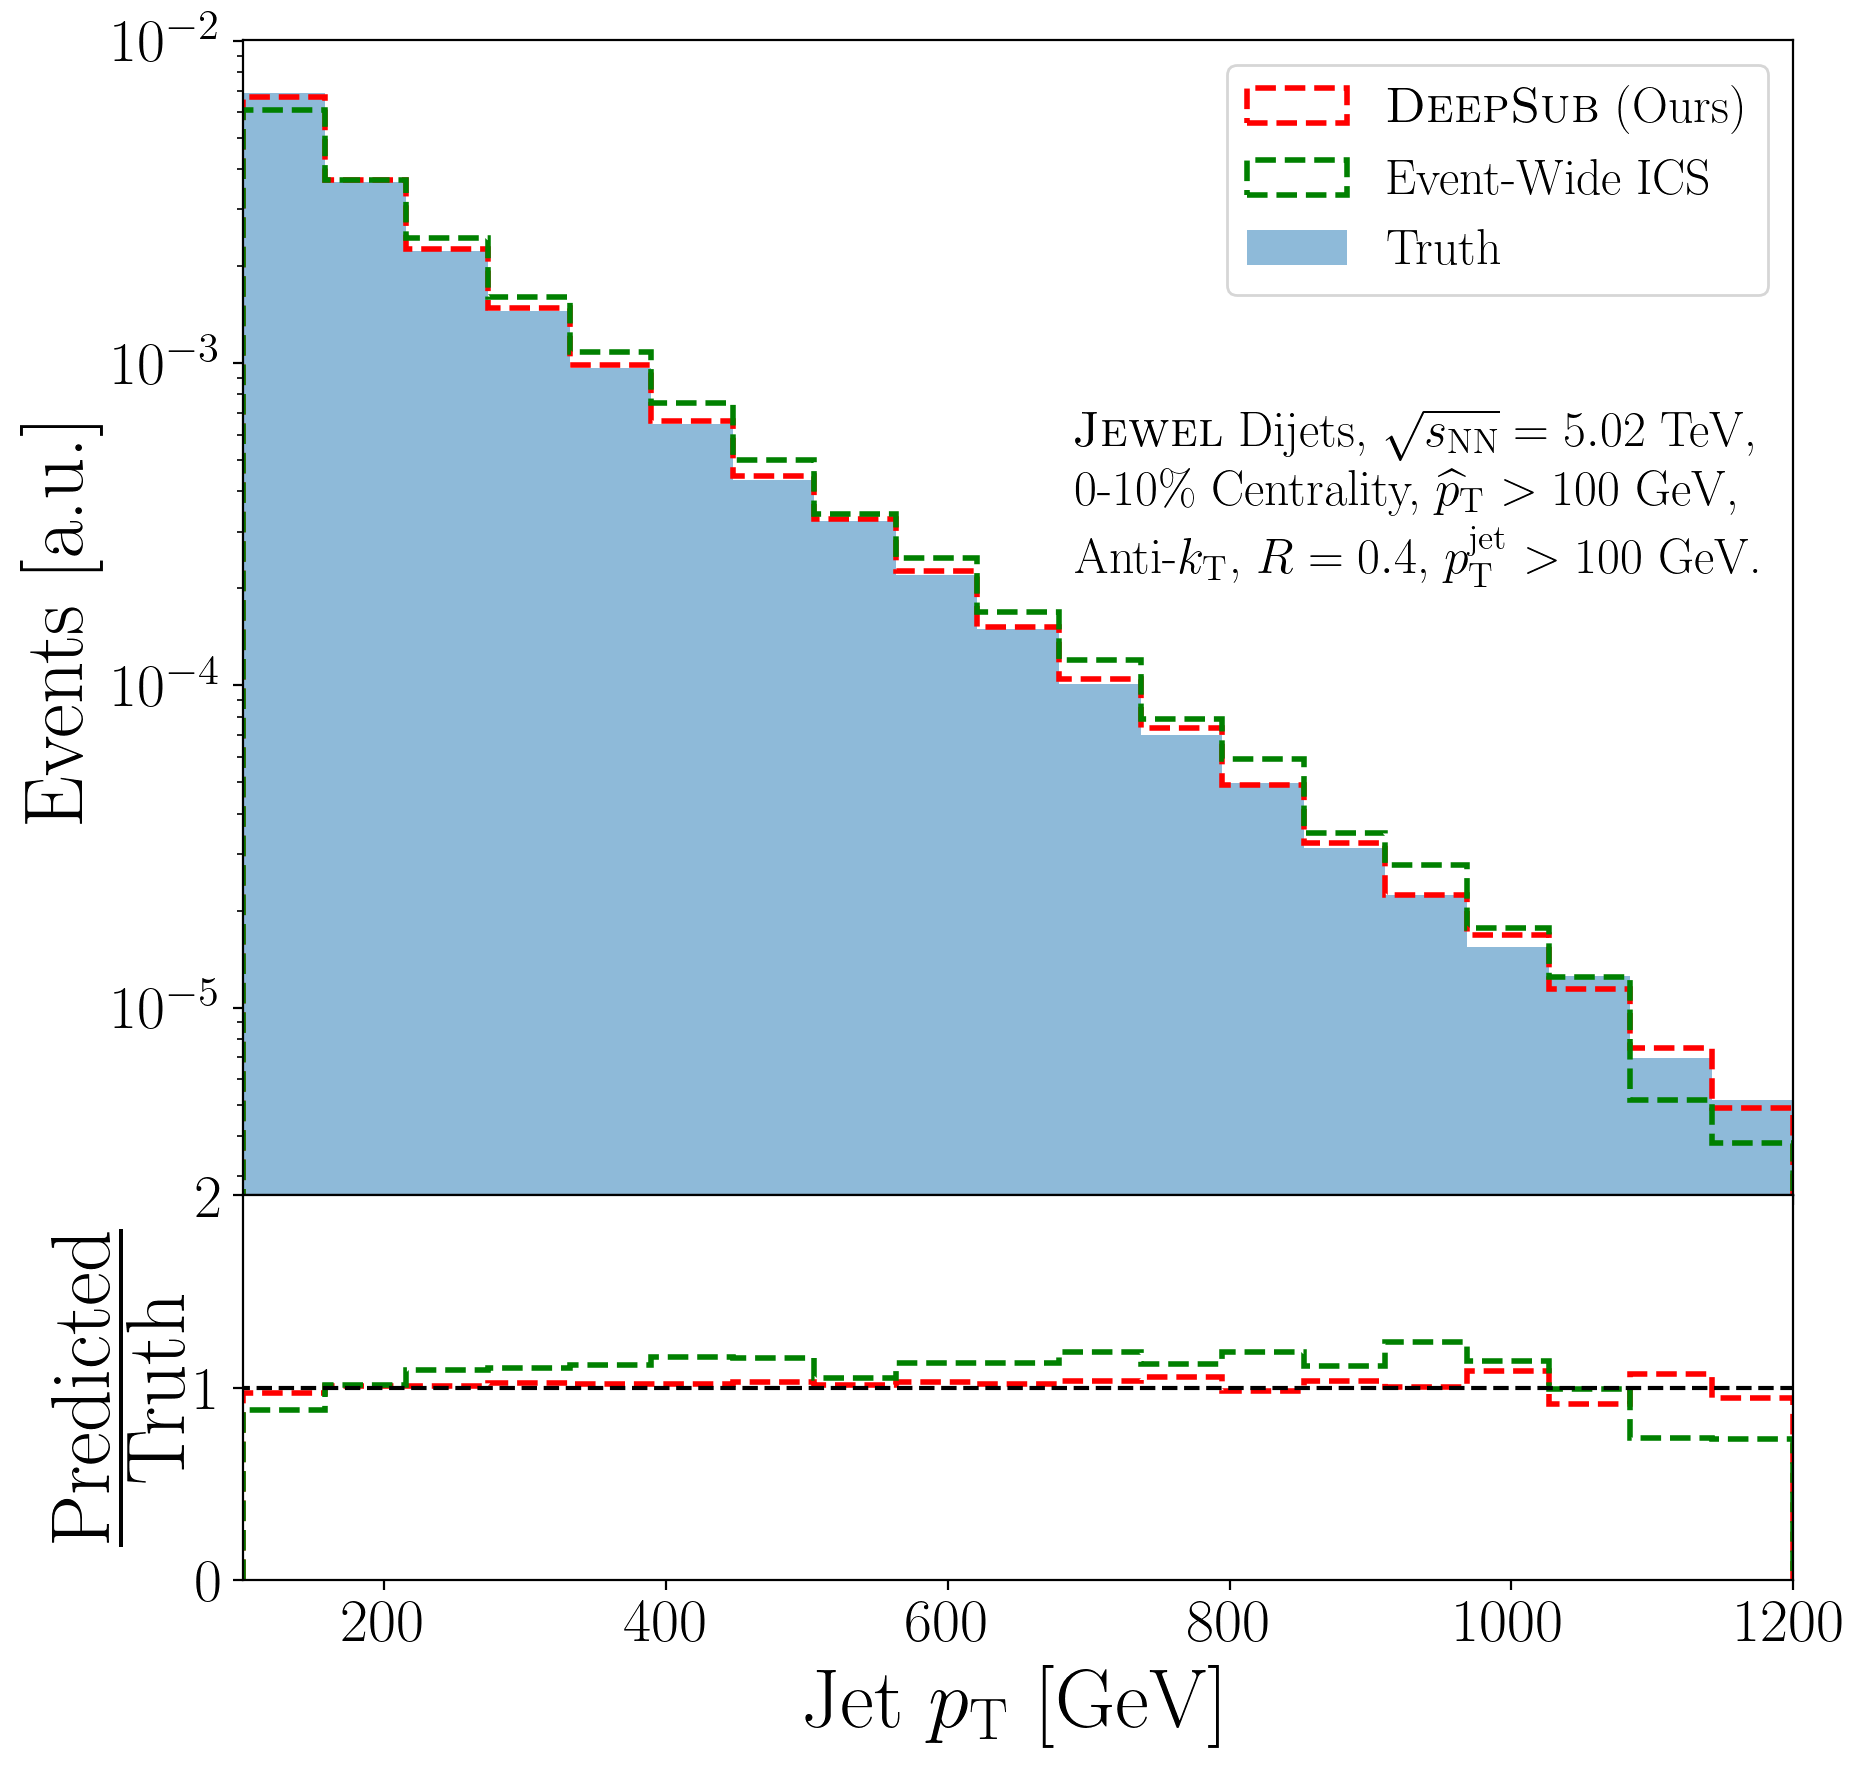
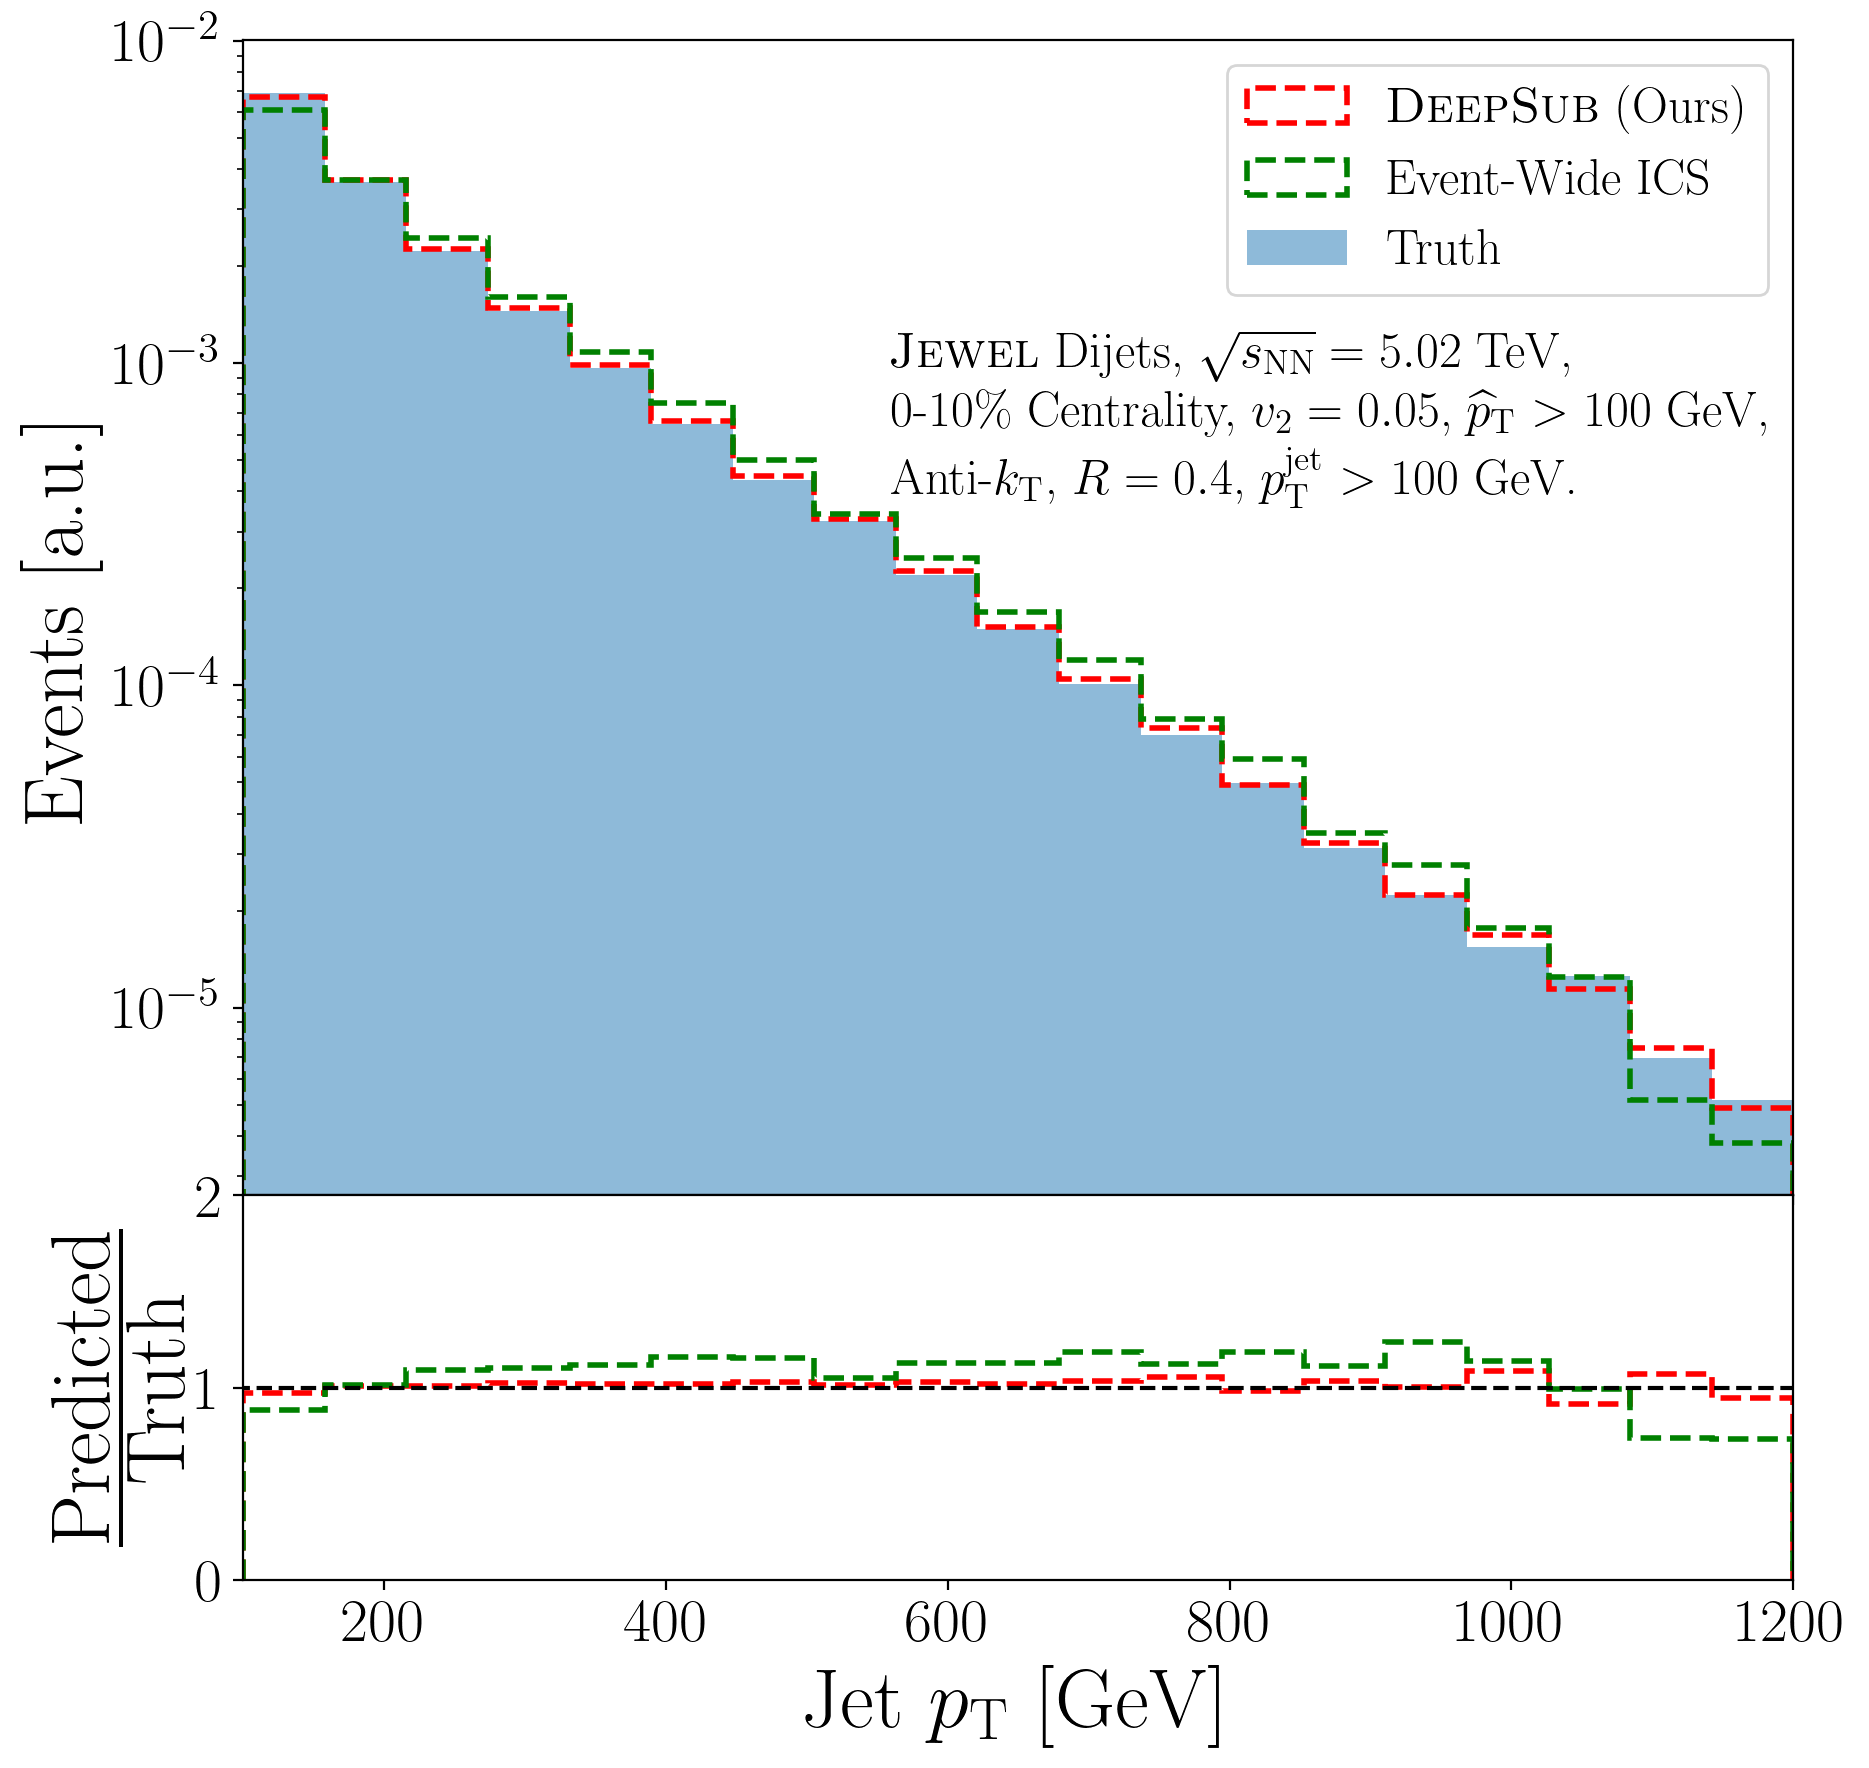
Changed plotting style

Changed region(s): [[0.4655, 0.1867, 0.931, 0.3422], [0.5896, 0.3111, 0.6517, 0.3422], [0.8999, 0.3111, 0.931, 0.3422]]

diff --git a/plot.py b/plot.py
@@ -1,6 +1,7 @@
 """
-Plotting macros for reconstructed, event-wide ICS vs. truth jet observables:
+plot.py
 
+Generate comparison plots for reconstructed vs. truth jet observables:
 - Jet pT
 - Jet mass
 - Jet girth
@@ -9,7 +10,6 @@ Plotting macros for reconstructed, event-wide ICS vs. truth jet observables:
 Loads NumPy arrays from the 'obs' directory and saves figures to 'figs'.
 """
 
-import os
 import numpy as np
 import matplotlib.pyplot as plt
 from pathlib import Path
@@ -80,9 +80,9 @@ def plot_pt(obs_dir, figs_dir):
 
     # Annotation
     ax_main.text(
-        690, 0.225e-3,
+        560, 1.55*0.255e-3,
         "\\textsc{Jewel} Dijets, $\\sqrt{s_{\\mathrm{NN}}}=5.02$ TeV,\n"
-        "0-10\\% Centrality, $\\widehat{p}_{\\mathrm{T}}> 100$ GeV,\n"
+        "0-10\\% Centrality, $v_2=0.05$, $\\widehat{p}_{\\mathrm{T}}> 100$ GeV,\n"
         "Anti-$k_{\\mathrm{T}}$, $R=0.4$, $p_{\\mathrm{T}}^{\\mathrm{jet}} > 100$ GeV.",
         fontsize=18
     )
@@ -137,9 +137,9 @@ def plot_mass(obs_dir, figs_dir):
     ax_ratio.set_ylim([0, 2])
 
     ax_main.text(
-        78, 0.225e-2,
+        62, 1.75*0.225e-2,
         "\\textsc{Jewel} Dijets, $\\sqrt{s_{\\mathrm{NN}}}=5.02$ TeV,\n"
-        "0-10\\% Centrality, $\\widehat{p}_{\\mathrm{T}}> 100$ GeV,\n"
+        "0-10\\% Centrality, $v_2=0.05$, $\\widehat{p}_{\\mathrm{T}}> 100$ GeV,\n"
         "Anti-$k_{\\mathrm{T}}$, $R=0.4$, $p_{\\mathrm{T}}^{\\mathrm{jet}} > 100$ GeV.",
         fontsize=18
     )
@@ -196,7 +196,7 @@ def plot_girth(obs_dir, figs_dir):
     ax_main.text(
         0.075, 1.45,
         "\\textsc{Jewel} Dijets, $\\sqrt{s_{\\mathrm{NN}}}=5.02$ TeV,\n"
-        "0-10\\% Centrality, $\\widehat{p}_{\\mathrm{T}}> 100$ GeV,\n"
+        "0-10\\% Centrality, $v_2=0.05$, $\\widehat{p}_{\\mathrm{T}}> 100$ GeV,\n"
         "Anti-$k_{\\mathrm{T}}$, $R=0.4$, $p_{\\mathrm{T}}^{\\mathrm{jet}} > 100$ GeV.",
         fontsize=18
     )
@@ -267,7 +267,6 @@ def plot_ecf(obs_dir, figs_dir):
 
 def main():
     """Main entry point: configure plotting and generate all figures."""
-    os.makedirs("obs", exist_ok=True)
     obs_dir = Path("obs")
     figs_dir = Path("figs")
     figs_dir.mkdir(parents=True, exist_ok=True)

diff --git a/README.md b/README.md
@@ -35,7 +35,7 @@ Jet reconstruction in an ultra-relativistic heavy-ion collision suffers from a n
 
 ## Preprocessed Data
 
-The full dataset used in this study is available at DOI: [10.5281/zenodo.14213191](https://doi.org/10.5281/zenodo.14213191).
+The full dataset used in this study is available at DOI: [10.5281/zenodo.15674391](https://doi.org/10.5281/zenodo.15674391).
 
 [![DOI](https://zenodo.org/badge/DOI/10.5281/zenodo.15674391.svg)](https://doi.org/10.5281/zenodo.15674391)
 
